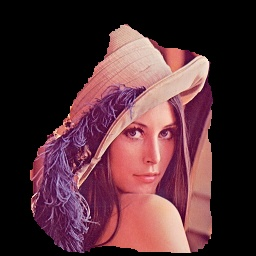
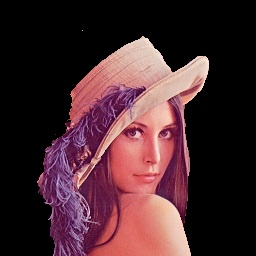
init project

diff --git a/src/GMM.py b/src/GMM.py
@@ -56,7 +56,7 @@ class GaussianMixtureModel(object):
 				continue
 			self.mean[k] = np.mean(sub_pixels, axis=0)
 			#print(sub_pixels, self.mean[k])
-			self.cov[k] = np.cov(sub_pixels.T)
+			self.cov[k] = np.cov(sub_pixels.T, bias=True)
 			self.det_cov[k] = np.linalg.det(self.cov[k])
 			while self.det_cov[k] < EPS:
 				self.cov[k] += np.diag([SINGULAR_FIX for i in range(3)])
